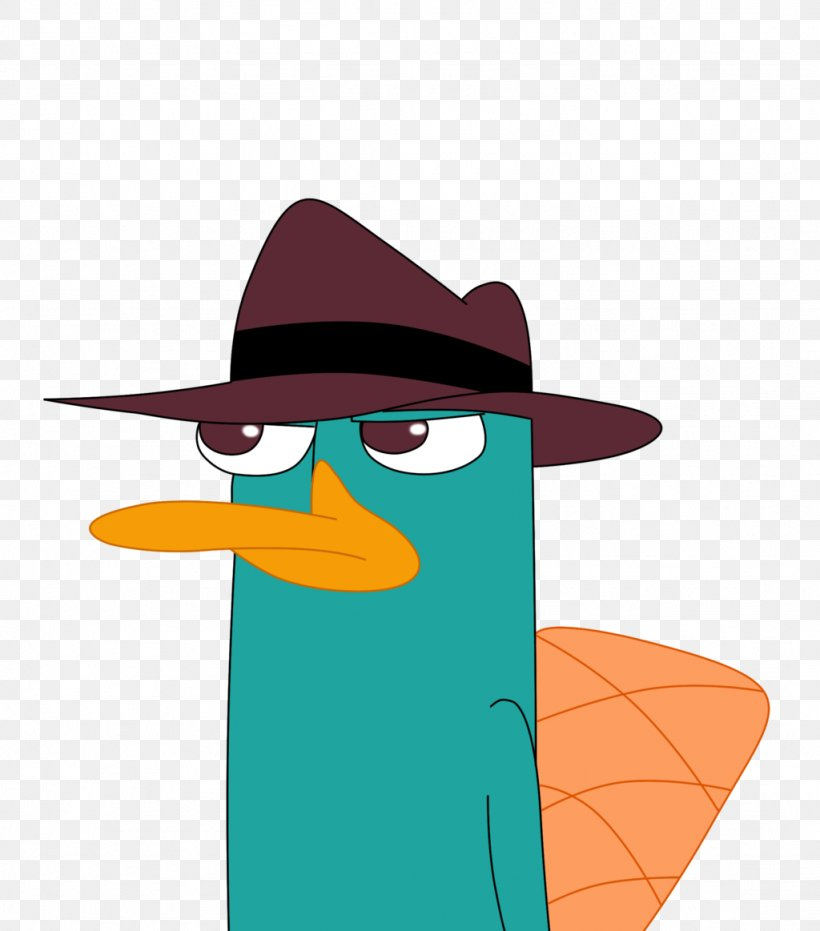
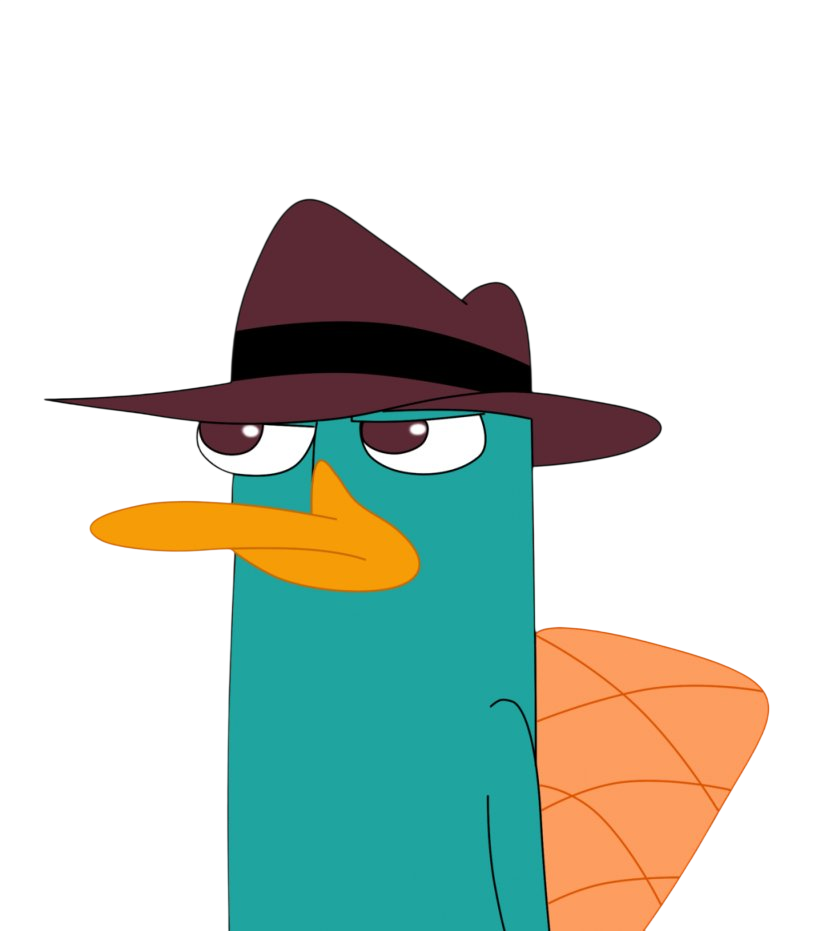
Replace Perry image (transparent bg) + autoplay-fallback for Doof jingle
- assets/img/perry.png swapped for the user's bg-removed version.
- playDoofJingle now queues itself on the first user gesture if autoplay
  is blocked. The jingle is already called from showDoof when the
  overlay opens, but browsers block autoplay on first visit before any
  click/key. With this fallback, the jingle fires the instant the
  visitor engages — usually the same click/key that dismisses the
  overlay (capture-phase listener runs first).

diff --git a/scripts/audio.js b/scripts/audio.js
@@ -126,10 +126,33 @@ export function playCreeperHiss() {
 }
 
 // === Doof jingle: plays when the Doof overlay opens ===
+//
+// On the very first page load, browsers usually block autoplay until the
+// user has interacted. If that happens, we register a one-time pointerdown
+// /keydown listener so the jingle fires the moment they engage (often the
+// click/key that dismisses the overlay).
+let doofJingleQueued = false;
 export function playDoofJingle() {
   const audio = load('doofJingle');
-  if (audio) tryPlay(audio.cloneNode(), () => fallbackMelody());
-  else fallbackMelody();
+  if (!audio) { fallbackMelody(); return; }
+
+  const playOnce = () => {
+    const inst = audio.cloneNode();
+    tryPlay(inst, () => {
+      if (doofJingleQueued) return;
+      doofJingleQueued = true;
+      const onGesture = () => {
+        document.removeEventListener('pointerdown', onGesture, true);
+        document.removeEventListener('keydown', onGesture, true);
+        doofJingleQueued = false;
+        playOnce();
+      };
+      document.addEventListener('pointerdown', onGesture, { capture: true, once: true });
+      document.addEventListener('keydown',     onGesture, { capture: true, once: true });
+    });
+  };
+
+  playOnce();
 }
 
 // === Explosion: white-noise burst ===
